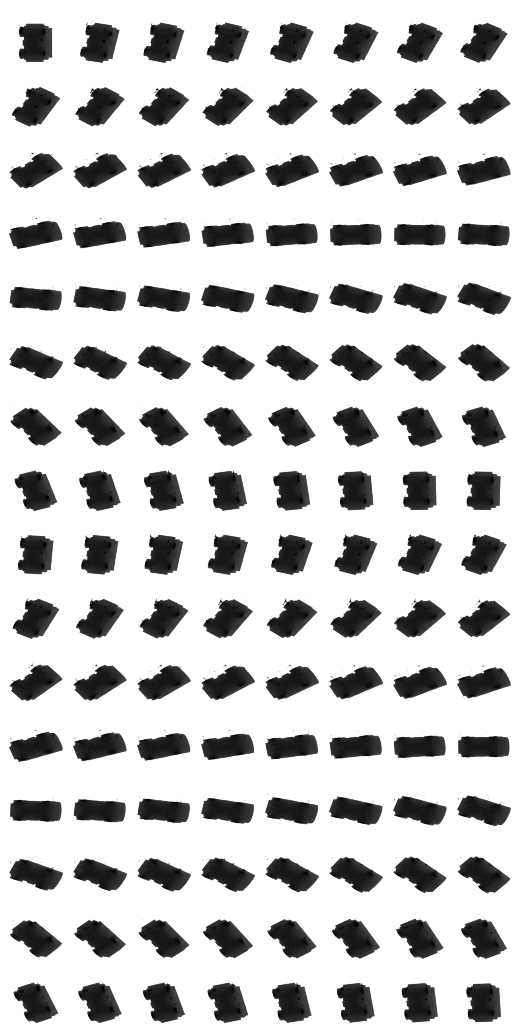
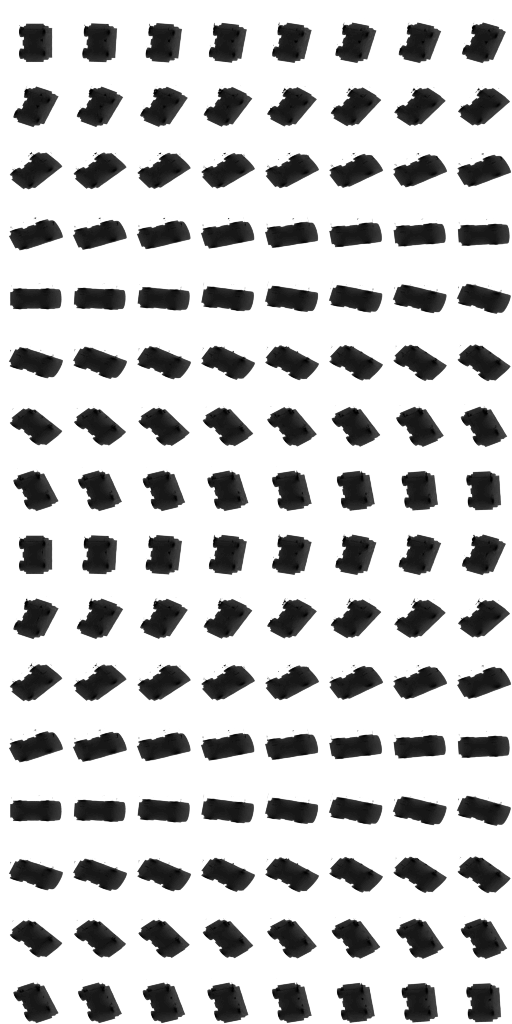
new graphics

diff --git a/scripts/reverse-sprites.py b/scripts/reverse-sprites.py
@@ -1,8 +1,9 @@
 from PIL import Image
 import sys
 import os
+from constant import *
 
-def reverse_sprite_sheet(input_file, output_file=None, frame_width=128, frame_height=128, frames_per_row=4):
+def reverse_sprite_sheet(input_file, output_file=None):
     """
     Reverse the rotation direction of frames in a sprite sheet.
     Keeps frame 0 (north/0°) fixed and reverses frames 1-31, so rotation goes
@@ -73,14 +74,6 @@ if __name__ == "__main__":
     else:
         output_file = input_file
     
-    # Optional parameters
-    frame_width = 64
-    frame_height = 64
-    frames_per_row = 8
-    
-    if len(sys.argv) > 3:
-        frames_per_row = int(sys.argv[3])
-    
     # Get script directory and adjust paths
     script_dir = os.path.dirname(os.path.abspath(__file__))
     project_root = os.path.dirname(script_dir)
@@ -92,5 +85,5 @@ if __name__ == "__main__":
         print(f"Error: Input file not found: {input_path}")
         sys.exit(1)
     
-    reverse_sprite_sheet(input_path, output_path, frame_width, frame_height, frames_per_row)
+    reverse_sprite_sheet(input_path, output_path)
 

diff --git a/scripts/merge-sprites.py b/scripts/merge-sprites.py
@@ -1,9 +1,9 @@
 from PIL import Image
 import math
+from constant import *
 
 # Configuration
-frame_count = 128
-frames_per_row = 8
+
 frame_folder = "temp_sprites/"          # Folder where individual frames are
 frame_ext = ".png"                 # Frame file extension
 output_file = "spritesheet.png"    # Output sprite sheet

diff --git a/scripts/constant.py b/scripts/constant.py
@@ -1,0 +1,4 @@
+frame_count = 128
+frames_per_row = 8
+frame_width = 64
+frame_height = 64
